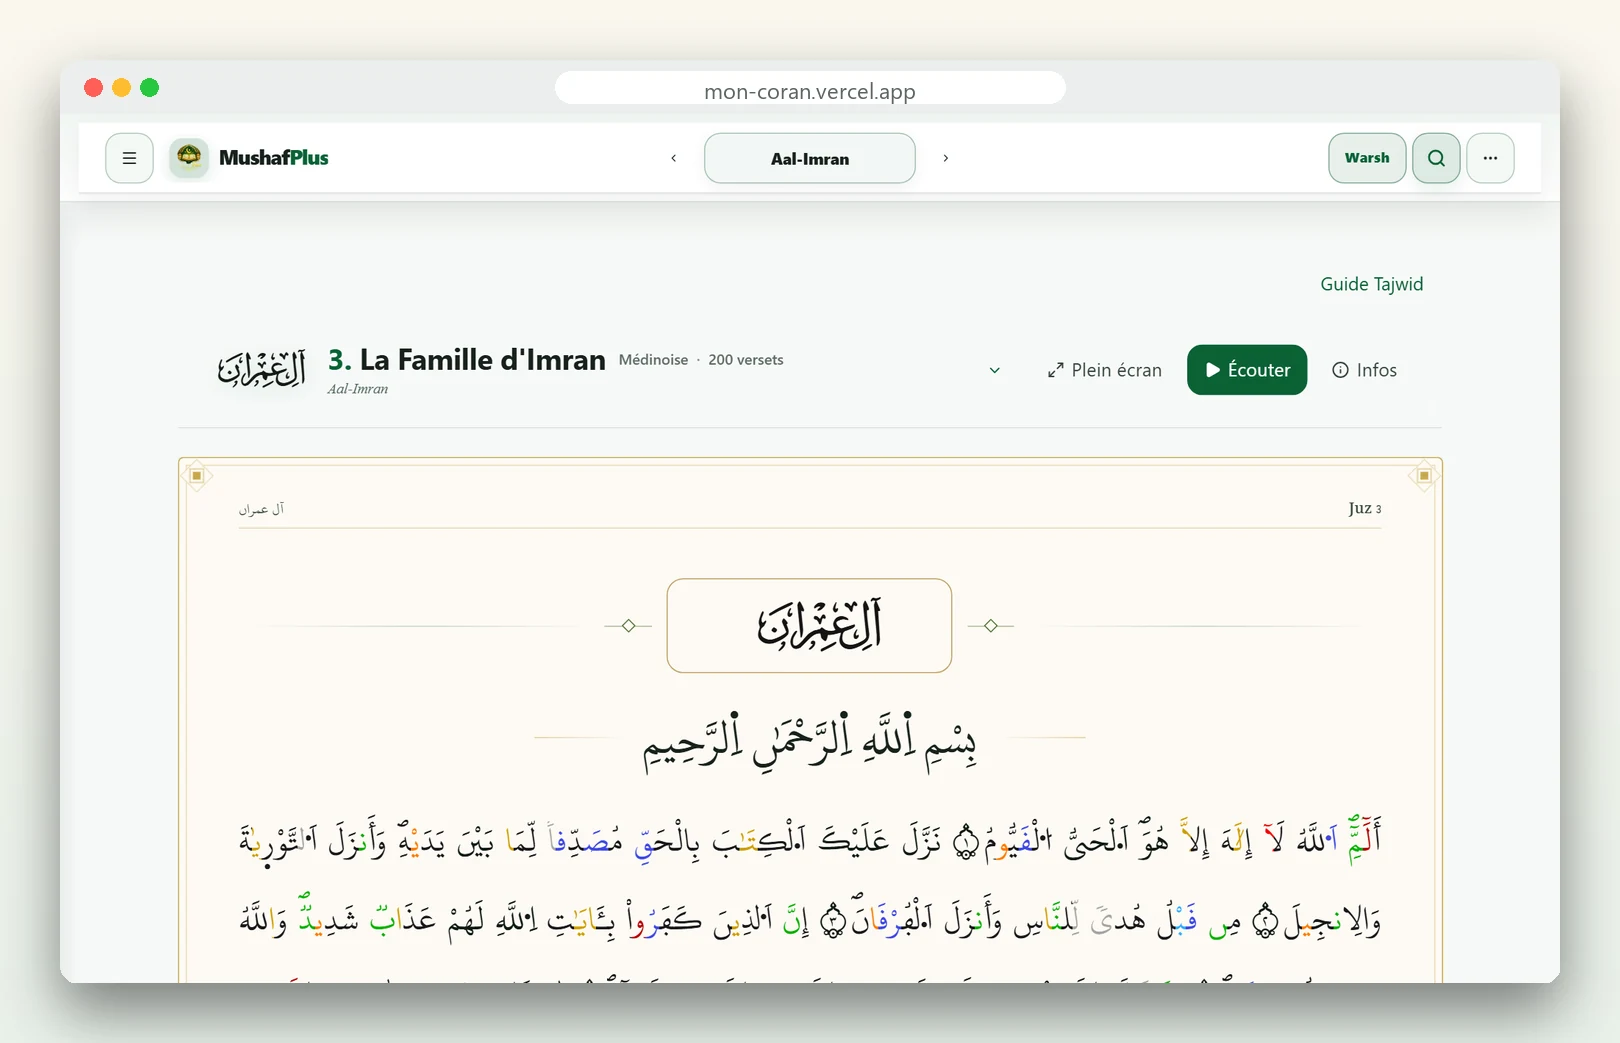
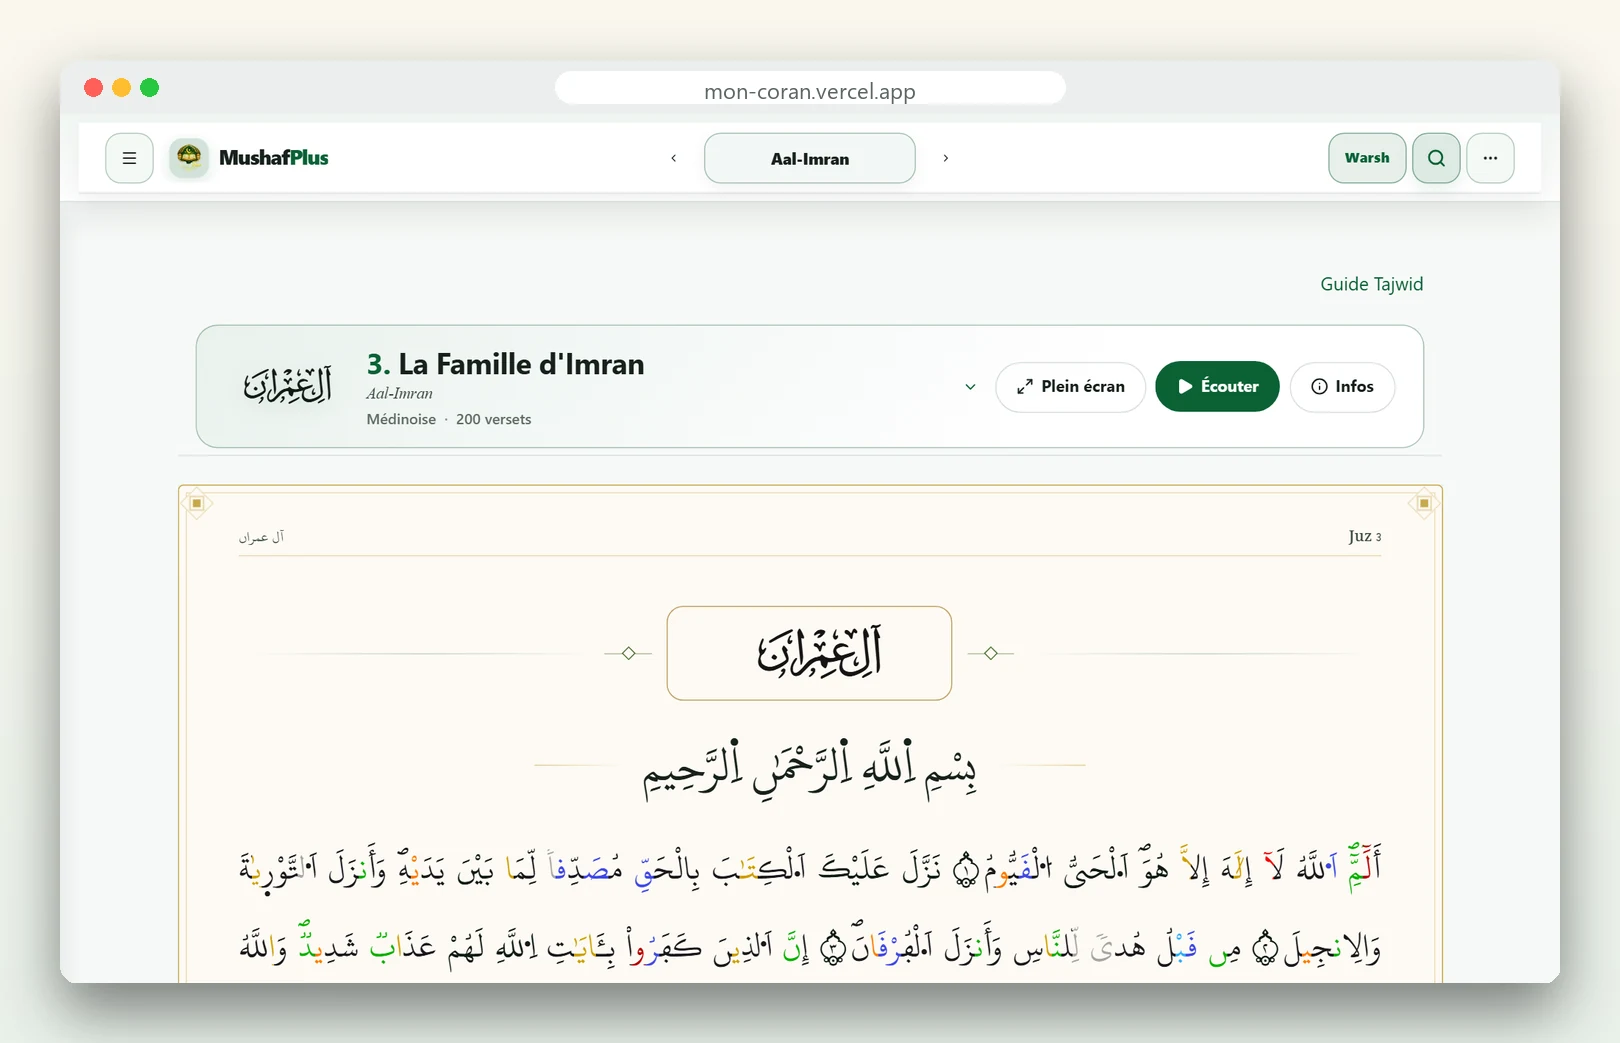
docs(readme): fresh screenshots of 1.2.0 and updated feature text
- recapture the whole gallery from the production build (Hafs/Warsh reader,
  audio, home, tablet, phone strips) and add the new screens: automatic
  search, information pages, invocations
- README: search without language filter, information pages, compact player,
  real entry-bundle size, 545 unit / 325 Chromium tests, 1.2.0 in the roadmap,
  mirror link
- capture script: optional query for the search shots; image builder: new strips

diff --git a/scripts/build-readme-images.py b/scripts/build-readme-images.py
@@ -203,8 +203,8 @@ def strip(items, name, width=1900, per_row=None, cap_size=38):
 
 strip([("home-mobile", "Accueil"), ("reader-mushaf-mobile", "Mushaf · Tajwid"), ("reader-mobile", "Liste · traduction"),
        ("audio-mobile", "54 récitateurs"), ("menu-mobile", "Menu · mode sombre")], "devices-phone.webp", width=2400, cap_size=42)
-strip([("reader-arabic-mobile", "Arabe · RTL · sépia"), ("search-mobile", "Recherche"), ("settings-mobile", "Réglages"),
-       ("menu-mobile", "Hafs / Warsh")], "devices-phone-2.webp", width=2000, cap_size=40)
+strip([("reader-arabic-mobile", "Arabe · RTL · sépia"), ("search-auto-mobile", "Recherche automatique"), ("duas-mobile", "Invocations"),
+       ("about-mobile", "Transparence"), ("settings-mobile", "Réglages")], "devices-phone-2.webp", width=2400, cap_size=38)
 
 # --- 3. tablets ---------------------------------------------------------------
 TW, TH = 2400, 1010
@@ -235,7 +235,7 @@ save(desk, "devices-desktop.webp")
 
 # --- 5. single framed desktop shots -------------------------------------------
 for name, crop in (("home-desktop", 0), ("reader-mushaf-desktop", PLAYER), ("reader-warsh", PLAYER), ("reader-mushaf-dark", PLAYER),
-                   ("audio-desktop", 0), ("search-desktop", 0), ("settings-desktop", 0)):
+                   ("audio-desktop", 0), ("search-desktop", 0), ("search-auto-desktop", 0), ("about-desktop", 0), ("settings-desktop", 0)):
     if not (RAW / f"{name}.png").exists():
         continue
     win, radius = browser(load(name, crop), 1500)

diff --git a/README.md b/README.md
@@ -16,7 +16,7 @@ Hafs & Warsh · Tajwid aux couleurs de Quran.com · 54 récitateurs · hors-lign
 [![Tailwind](https://img.shields.io/badge/Tailwind-4-06B6D4?logo=tailwindcss&logoColor=white)](https://tailwindcss.com)
 [![Version](https://img.shields.io/badge/version-1.2.0-0f6a43)](https://github.com/mohamedeyaf820/mon-coran/releases)
 
-**[Ouvrir l'application](https://mon-coran.vercel.app)** ·
+**[Ouvrir l'application](https://mon-coran.vercel.app)** (miroir : [mon-coran-main.vercel.app](https://mon-coran-main.vercel.app)) ·
 **[Fonctionnalités](#-fonctionnalités)** ·
 **[Démarrer](#-démarrer-en-2-minutes)** ·
 **[Architecture](#-architecture)** ·
@@ -42,13 +42,14 @@ MushafPlus is a free, static Progressive Web App for reading and listening to th
 | 🎧 **Récitations** | 54 récitateurs (46 Hafs, 8 Warsh), lecture verset par verset ou sourate continue, suivi mot à mot, téléchargement hors-ligne validé. |
 | 📴 **Hors-ligne** | PWA installable, service worker, texte et audio en cache, tafsir français relisible hors ligne après une première lecture. |
 | 🔒 **Privé par conception** | Aucun compte, aucune synchronisation cloud. Verrouillage optionnel par phrase secrète (PBKDF2 600 000 itérations + AES). |
+| 🔎 **Recherche sans filtre de langue** | Un seul champ, au clavier comme à la voix : arabe, translittération (même collée, `kulhuallah`, `Bismillahirrahmanirrahim`), français ou anglais. La langue est reconnue automatiquement. |
 | 🌍 **Trilingue** | Français, anglais, arabe avec bascule RTL native — pas de miroir approximatif. |
 
 ---
 
 ## 📸 Aperçu
 
-Une seule application, trois formats : l'interface s'adapte au téléphone (barre de navigation du bas), à la tablette (portrait et paysage) et à l'ordinateur (en-tête complet).
+Une seule application, trois formats : l'interface s'adapte au téléphone (barre de navigation du bas), à la tablette (portrait et paysage) et à l'ordinateur (en-tête complet). Images mises à jour avec la version 1.2.0.
 
 ### 📱 Téléphone
 
@@ -56,7 +57,7 @@ Une seule application, trois formats : l'interface s'adapte au téléphone (barr
   <img src="docs/images/devices-phone.webp" alt="MushafPlus sur téléphone : accueil, mushaf avec Tajwid, liste avec traduction, 54 récitateurs, menu en mode sombre" width="100%">
 </p>
 <p align="center">
-  <img src="docs/images/devices-phone-2.webp" alt="MushafPlus sur téléphone : arabe RTL en sépia, recherche, réglages, bascule Hafs / Warsh" width="85%">
+  <img src="docs/images/devices-phone-2.webp" alt="MushafPlus sur téléphone : arabe RTL en sépia, recherche automatique, invocations, pages de transparence, réglages" width="100%">
 </p>
 
 ### 📲 Tablette
@@ -82,6 +83,10 @@ Une seule application, trois formats : l'interface s'adapte au téléphone (barr
   </tr>
   <tr>
     <td width="50%"><img src="docs/images/desktop-home.webp" alt="Accueil : reprise de lecture, verset du jour, sourates"><br><sub><b>Accueil</b> — reprise exacte de la dernière position, verset du jour</sub></td>
+    <td width="50%"><img src="docs/images/desktop-search-auto.webp" alt="Recherche « le tout miséricordieux » : traduction française reconnue automatiquement"><br><sub><b>Recherche</b> — « le tout miséricordieux » est reconnu comme une traduction, sans choisir de langue</sub></td>
+  </tr>
+  <tr>
+    <td width="50%"><img src="docs/images/desktop-about.webp" alt="Page À propos : intention, application, principes, hors-ligne"><br><sub><b>Transparence</b> — À propos, Confidentialité, Mentions légales et Sources</sub></td>
     <td width="50%"><img src="docs/images/desktop-settings.webp" alt="Réglages : langue, thèmes, mode nuit automatique"><br><sub><b>Réglages</b> — langue, trois thèmes, mode nuit, audio, confidentialité</sub></td>
   </tr>
 </table>
@@ -95,7 +100,7 @@ Une seule application, trois formats : l'interface s'adapte au téléphone (barr
 - **Deux présentations** : *liste* (un verset par bloc, avec traduction et translittération) et *mushaf* (mise en page de page imprimée, plein écran inclus).
 - **Reprise exacte** là où vous vous êtes arrêté, y compris après rechargement ou hors-ligne.
 - **Cinq polices Hafs** (QPC Uthmani, IndoPak Nastaleeq, Scheherazade New, Amiri Quran, Noto Naskh) et deux polices Warsh, avec réglage de taille.
-- **Recherche** par référence (`2:255`), par texte arabe ou par mot, recherche vocale.
+- **Recherche sans choix de langue** : référence (`2:255`), nom de sourate, texte arabe, translittération (`kulhuallah`, `Bismillahirrahmanirrahim`), mot ou phrase en français ou en anglais (« le tout miséricordieux »). La langue est reconnue seule ; la dictée vocale écoute dans la langue de l'interface puis, si rien n'est trouvé, une seconde fois dans l'autre.
 - **Informations de sourate** : dossier éditorial, lieu de révélation, nombre de versets.
 
 ### 🎨 Tajwid
@@ -121,7 +126,8 @@ Une seule application, trois formats : l'interface s'adapte au téléphone (barr
 ### 📱 Interface
 - **Mobile d'abord** : barre de navigation du bas, zones tactiles ≥ 44 px, en-tête qui s'efface en lecture.
 - **Trois thèmes** (jour, sépia, nuit), mode nuit automatique, cibles tactiles et contrastes testés.
-- Raccourcis clavier, plein écran, accessibilité vérifiée par axe-core.
+- **Pages d'information** (À propos, Confidentialité, Mentions légales, Sources) en cartes responsives dès 240 px, avec attributions de chaque source.
+- Lecteur audio compact (barre de progression, titre de sourate en calligraphie), raccourcis clavier, plein écran, accessibilité vérifiée par axe-core.
 
 ---
 
@@ -144,7 +150,7 @@ Mesures faites sur le build de production (réseau réel, Chromium) :
 
 | Mesure | Valeur |
 |---|---|
-| JS du point d'entrée | ≈ 143 kB (le français est embarqué, l'anglais et l'arabe se chargent à la demande) |
+| Premier chargement (point d'entrée) | ≈ 770 kB dont ≈ 409 kB de JS et ≈ 361 kB de CSS (≈ 192 kB compressés) ; le français est embarqué, l'anglais et l'arabe se chargent à la demande |
 | Premier verset visible (sourate 2) | ≈ 1 s |
 | Accueil : premier affichage | ≈ 0,3 s |
 | Défilement en mode page | ≈ 60 images/s |
@@ -235,8 +241,8 @@ npm run preview        # http://localhost:4173
 
 ## 🧪 Qualité
 
-- **≈ 520 tests unitaires et contrats** : intégrité du texte coranique et du Tajwid, chiffrement, crypto, budgets tactiles, parité des en-têtes de déploiement, i18n (parité des clés FR/EN/AR).
-- **≈ 60 fichiers de scénarios e2e** (≈ 285 tests) sur Chromium, Firefox, WebKit et en PWA hors-ligne : lecture, audio, téléchargements, responsive, RTL, accessibilité (axe-core), régression visuelle.
+- **545 tests unitaires et contrats** : intégrité du texte coranique et du Tajwid, chiffrement, crypto, budgets tactiles, parité des en-têtes de déploiement, i18n (parité des clés FR/EN/AR).
+- **71 fichiers de scénarios e2e** (325 tests sur Chromium) sur Chromium, Firefox, WebKit et en PWA hors-ligne : lecture, audio, téléchargements, responsive, RTL, accessibilité (axe-core), régression visuelle.
 - **CI** (GitHub Actions) : lint, tests avec couverture, build + budgets, audit des dépendances, vérification des données Warsh.
 - Preuves de non-régression CSS : [`scripts/snapshot-computed-styles.mjs`](scripts/snapshot-computed-styles.mjs) compare le style calculé de chaque élément entre deux builds.
 
@@ -244,7 +250,7 @@ npm run preview        # http://localhost:4173
 
 ## 🗺 Feuille de route
 
-Les huit phases initiales (stabilisation, lecture fluide, audio modulaire, design system, accueil, récitateurs, sécurité, bibliothèque) sont **terminées**. Récemment : Tajwid fidèle à Quran.com sur toutes les polices Hafs, navigation mobile, téléchargements hors-ligne validés, dictionnaires par langue. Voir [ROADMAP.md](ROADMAP.md).
+Les huit phases initiales (stabilisation, lecture fluide, audio modulaire, design system, accueil, récitateurs, sécurité, bibliothèque) sont **terminées**. Récemment : Tajwid fidèle à Quran.com sur toutes les polices Hafs, navigation mobile, téléchargements hors-ligne validés, dictionnaires par langue. **Version 1.2.0 (octobre 2026)** : recherche sans filtre de langue, pages d'information refaites, lecteur compact et défilement plus stables, 2 700 règles CSS mortes supprimées. Voir [ROADMAP.md](ROADMAP.md).
 
 ---
 
